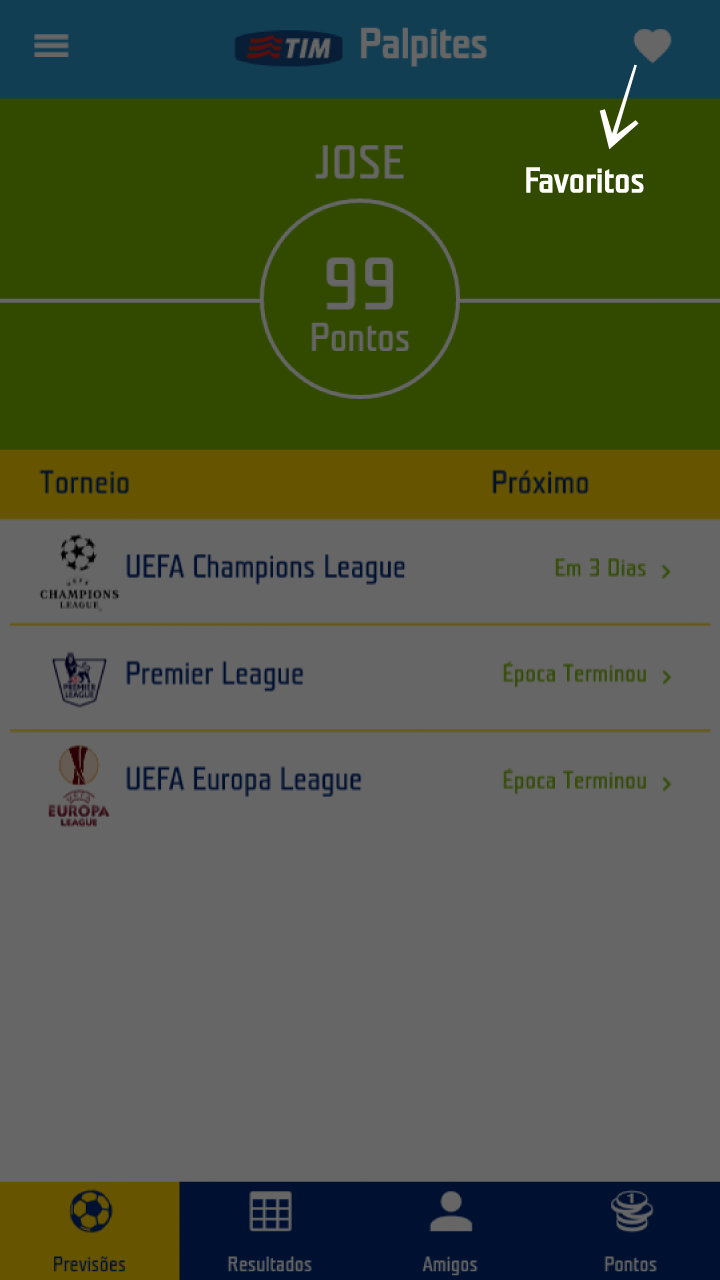
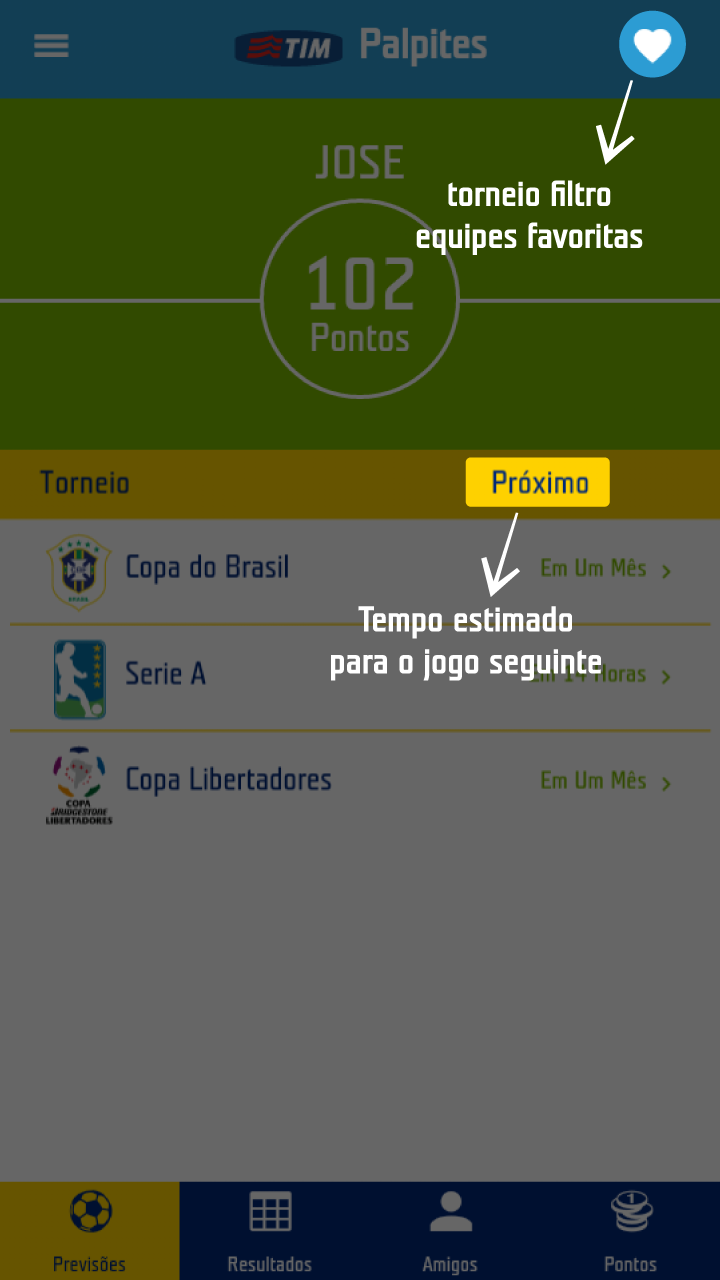
FUTBOL BRASIL: Nuevas imágenes del tutorial, validaciones varias de l&f leaderboard

diff --git a/FutbolBrasil/futbol-brasil/app/modules/core/views/leaderboard.html b/FutbolBrasil/futbol-brasil/app/modules/core/views/leaderboard.html
@@ -12,9 +12,10 @@
                       </div>
                       <div class="col-xs-8 h-ellipsis-truncate">
                         <img class="h-shield h-tree" ng-src="{{getCompetitionShield(competition.competiton_type.competition_logo)}}" onerror="this.src='img/shield-1.png'">
-                        <span ng-hide="$index===0" ng-bind="competition.competiton_type.name" class="caption"></span>
-                        <span ng-show="$index===0" class="caption" translate>LEADERBOARD.GENERAL</span>
+                        <span ng-hide="($index===0 && isContentLeader)" ng-bind="competition.competiton_type.name" class="caption"></span>
+                        <span ng-show="($index===0 && isContentLeader)" class="caption" translate>LEADERBOARD.GENERAL</span>
                       </div>
+
                       <div class="col-xs-2" ng-click="nextPage($index)">
                         <span class="mdi-navigation-arrow-forward" ng-hide="item.competitions[$index+1].name === undefined"></span>
                       </div>
@@ -22,17 +23,17 @@
 
 
                     <div class="row " style="margin: 0 !important;">
-                      <div class="col-xs-12 h-header red" style="text-align:right;" ng-hide="$index===0">
+                      <div class="col-xs-12 h-header red" style="text-align:right;" ng-hide="($index===0 && isContentLeader)">
 
                         <span class="badge disabled"
                               ng-class="{'disabled': isActive('competition{{$index}}')}"
                               ng-click="showTournament()"
-                              ng-hide="$index === 0">{{'LEADERBOARD.TOURNAMENT' | translate}}</span>
+                              ng-hide="($index===0 && isContentLeader)">{{'LEADERBOARD.TOURNAMENT' | translate}}</span>
 
                         <span class="badge"
                               ng-class="{'disabled': isActive('phase{{$index}}')}"
                               ng-click="showPhase()"
-                              ng-hide="$index === 0">{{'LEADERBOARD.PHASE' | translate}}</span>
+                              ng-hide="($index===0 && isContentLeader)">{{'LEADERBOARD.PHASE' | translate}}</span>
 
                       </div>
 
@@ -48,7 +49,7 @@
                           <div class="row">
                             <div class="col-xs-12" >
                               <table class="table h-table">
-                                <thead>
+                                  <thead>
                                   <tr>
                                     <th class="h-header yellow" style="width:20%"  >##</th>
                                     <th class="h-header yellow left" style="width:60%" translate>LEADERBOARD.PLAYER</th>

diff --git a/FutbolBrasil/futbol-brasil/app/modules/core/views/tutorial.html b/FutbolBrasil/futbol-brasil/app/modules/core/views/tutorial.html
@@ -13,12 +13,6 @@
       <li ng-style="getWidth()">
         <img  class="h-img-tutorial"  src="img/tutorial/{{language}}/3.png" onerror="this.src='img/tutorial/pt/3.png'">
       </li>
-      <li ng-style="getWidth()">
-        <img  class="h-img-tutorial"  src="img/tutorial/{{language}}/4.png" onerror="this.src='img/tutorial/pt/4.png'">
-      </li>
-      <li ng-style="getWidth()">
-        <img  class="h-img-tutorial"  src="img/tutorial/{{language}}/5.png" onerror="this.src='img/tutorial/pt/5.png'">
-      </li>
     </ul>
   </div>
 
@@ -28,8 +22,6 @@
     <i class="mdi-toggle-radio-button-off" ng-class="getToggleOnClass(1)"></i>
     <i class="mdi-toggle-radio-button-off" ng-class="getToggleOnClass(2)"></i>
     <i class="mdi-toggle-radio-button-off" ng-class="getToggleOnClass(3)"></i>
-    <i class="mdi-toggle-radio-button-off" ng-class="getToggleOnClass(4)"></i>
-    <i class="mdi-toggle-radio-button-off" ng-class="getToggleOnClass(5)"></i>
   </div>
 
 </div>

diff --git a/FutbolBrasil/futbol-brasil/app/modules/core/controllers/leaderboard.js b/FutbolBrasil/futbol-brasil/app/modules/core/controllers/leaderboard.js
@@ -27,8 +27,8 @@ angular
             $scope.hasFriends = true;
             $scope.hasLeaderboard = true;
 
+            $scope.isContentLeader = true;
 
-            $rootScope.$storage.leaderboard = false;
 
 
             function setActive(type) {
@@ -205,6 +205,7 @@ angular
                 $scope.$emit('load');
 
                 if(viewFriends){
+                    $scope.isContentLeader = false;
                     friendsMode = true;
                     getFbFriends();
                 }

diff --git a/FutbolBrasil/futbol-brasil/app/modules/core/controllers/tutorial.js b/FutbolBrasil/futbol-brasil/app/modules/core/controllers/tutorial.js
@@ -22,7 +22,7 @@ angular
             };
 
             $scope.getTotalWidth = function(){
-                return { 'width': (widthTotal * 5) + 'px'}
+                return { 'width': (widthTotal * 4) + 'px'}
             };
 
             $scope.goToIndex = function(){
